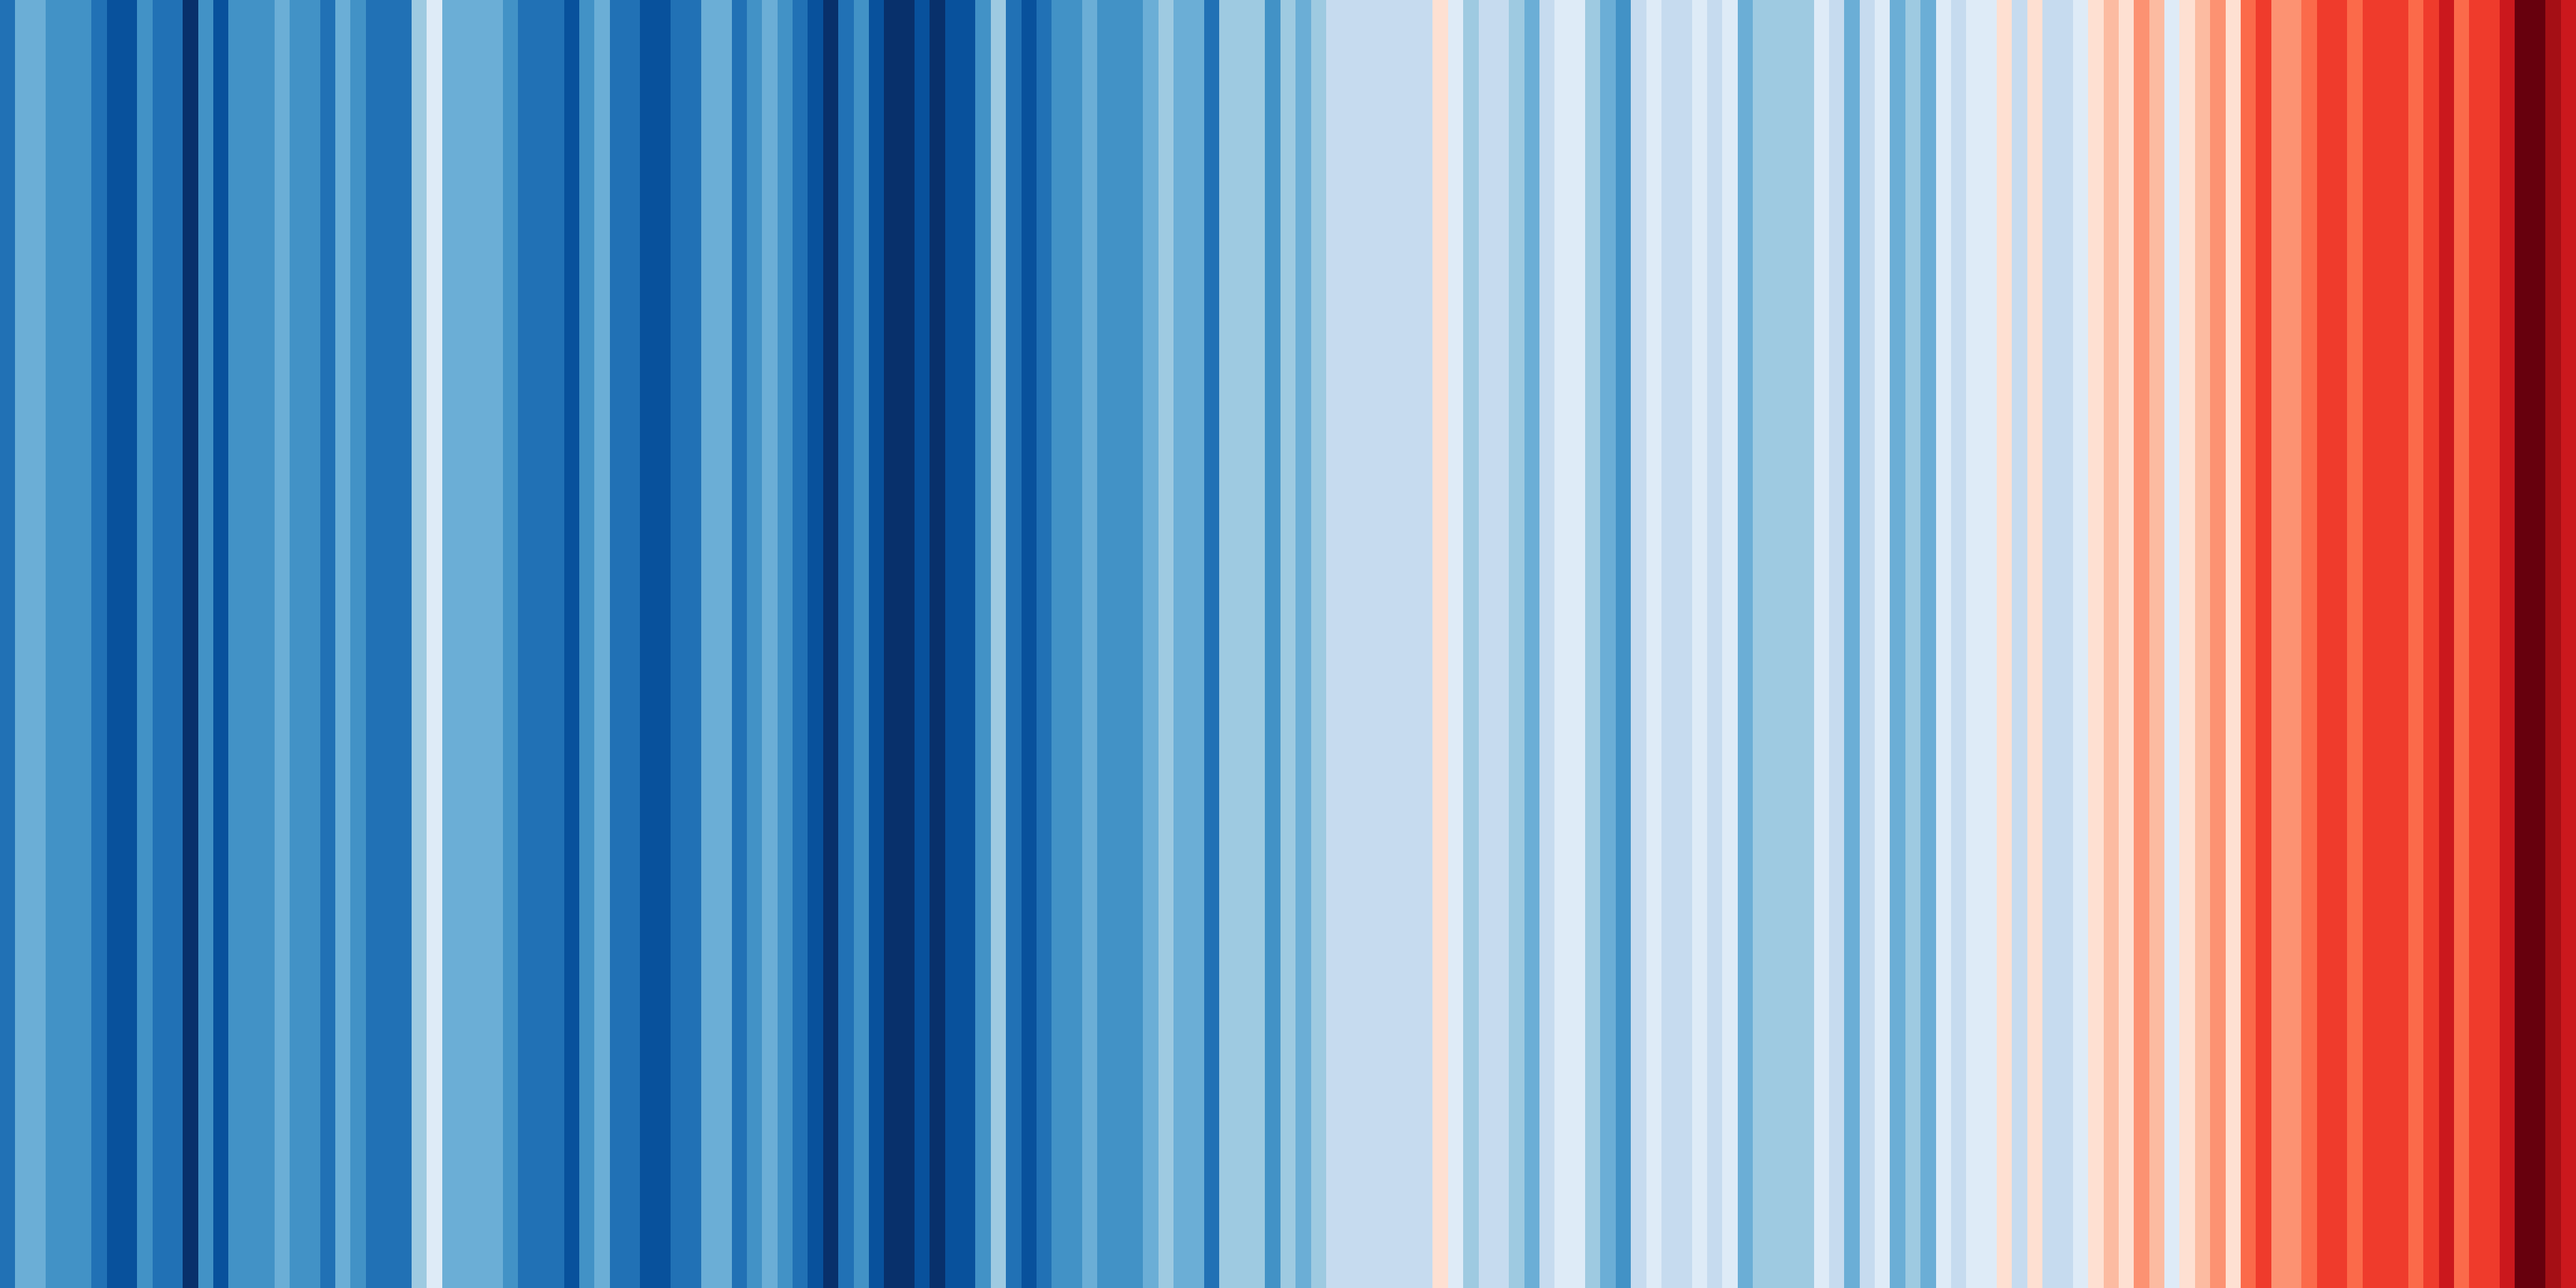
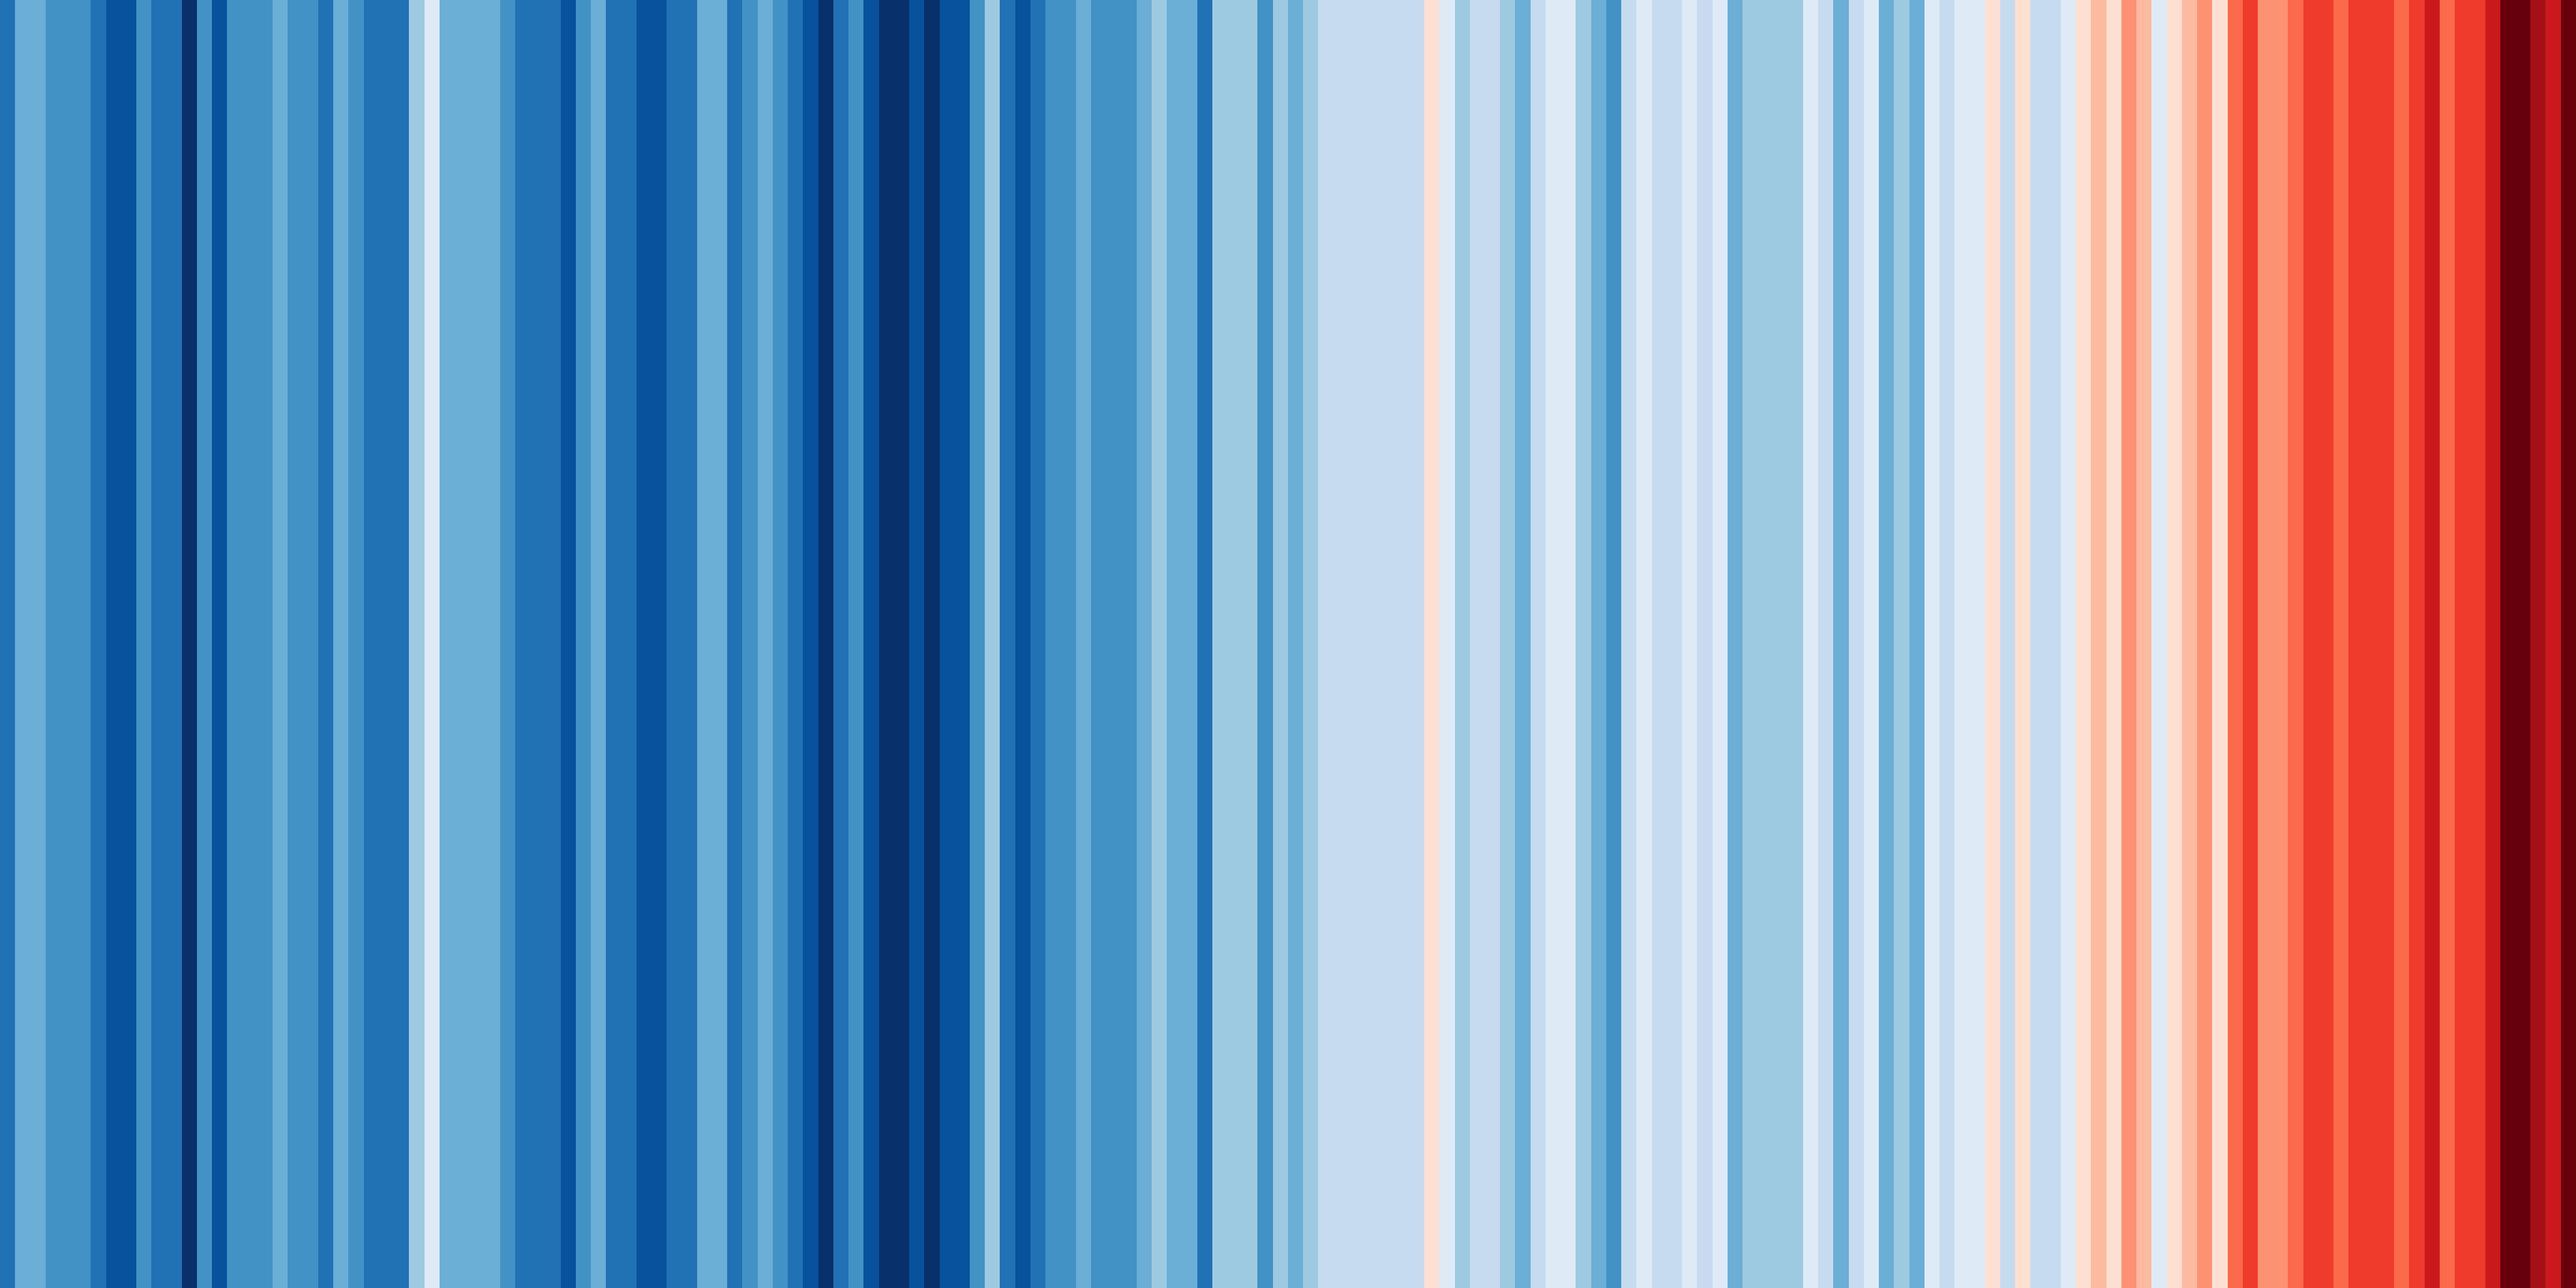
Updated, bit nicer

diff --git a/index.html b/index.html
@@ -125,10 +125,19 @@ h3:before {
 .cca button div {
     background-image: url('imgs/fullscreen-enter.svg');
     background-size: cover;
-    transform: rotate(90deg);
     width: 25px;
     height: 25px;
 }
+.open-btn {
+    background-color: #4DBD33;
+    transform: scale(0.8) rotate(90deg);
+    transition: transform 0.3s;
+}
+.open-btn:hover {
+  background-color: #4DBD33;
+  transform: scale(1) rotate(90deg);
+}
+
 .card {
     width: 100%;
     margin-bottom: 30px;
@@ -143,6 +152,7 @@ a {
 a:hover {
     color: #CD181D;
 }
+
 
 #modalpckg {
     display: none;
@@ -226,7 +236,8 @@ a:hover {
                 <div class="col col-lg-6 col-md-8">
                     <div class="row min_caps mt-3">
                         <div class="col-12">
-                            Global temperature 1850-2018 <a href="https://showyourstripes.info/">#ShowYourStripes</a>. Source: Ed Hawkins.
+				Global temperature 1850-2019 <a href="https://showyourstripes.info/">#ShowYourStripes</a>.<br>
+				Source: Ed Hawkins (University of Reading).
                         </div>
                     </div>
                 </div>
@@ -465,9 +476,9 @@ a:hover {
                 </div>
             </div>
             <div id="modaltsize">
-                <button id="smaller" type="button" class="btn btn-light"><div>-</div></button>
-                <button id="bigger" type="button" class="btn btn-light"><div>+</div></button>
-                <button type="button" class="btn btn-light"><div>x</div></button>
+                <button id="smaller" type="button" class="btn btn-light"><div>t</div></button>
+                <button id="bigger" type="button" class="btn btn-light"><div>T</div></button>
+                <button type="button" class="btn btn-light"><div>X</div></button>
             </div>
         </div>
     </body>
@@ -483,7 +494,7 @@ ACC = {
     };
 
 ACC.fullscreen = function(msg) {
-    var modalpckg, modal, page;
+    let modalpckg, modal, page;
 
     // disable background scroll
     page = document.getElementsByTagName('html')[0];
@@ -512,7 +523,7 @@ ACC.fullscreen = function(msg) {
 
 ACC.onload = function() {
 
-    var ackhtml, ackbutton, i, modal, modalwin, ccalist, page, node, nodediv, txtbutsm, txtbutlg, ackmodaltext, section, heading, ackmodalfig, modalhasfig;
+    let ackhtml, ackbutton, i, modal, modalwin, ccalist, page, node, nodediv, txtbutsm, txtbutlg, ackmodaltext, section, heading, ackmodalfig, modalhasfig;
 
     // Setup CCA buttons to make them full screen
     ccalist = document.getElementsByClassName('cca');
@@ -523,7 +534,7 @@ ACC.onload = function() {
         // add the fullscreen button
         ackbutton = document.createElement("button");
         ackbutton.type = "button";
-        ackbutton.className += "btn btn-light"
+        ackbutton.className += "open-btn btn btn-light"
         nodediv = document.createElement("div");
         ackbutton.appendChild(nodediv);
         // careful with the closures
